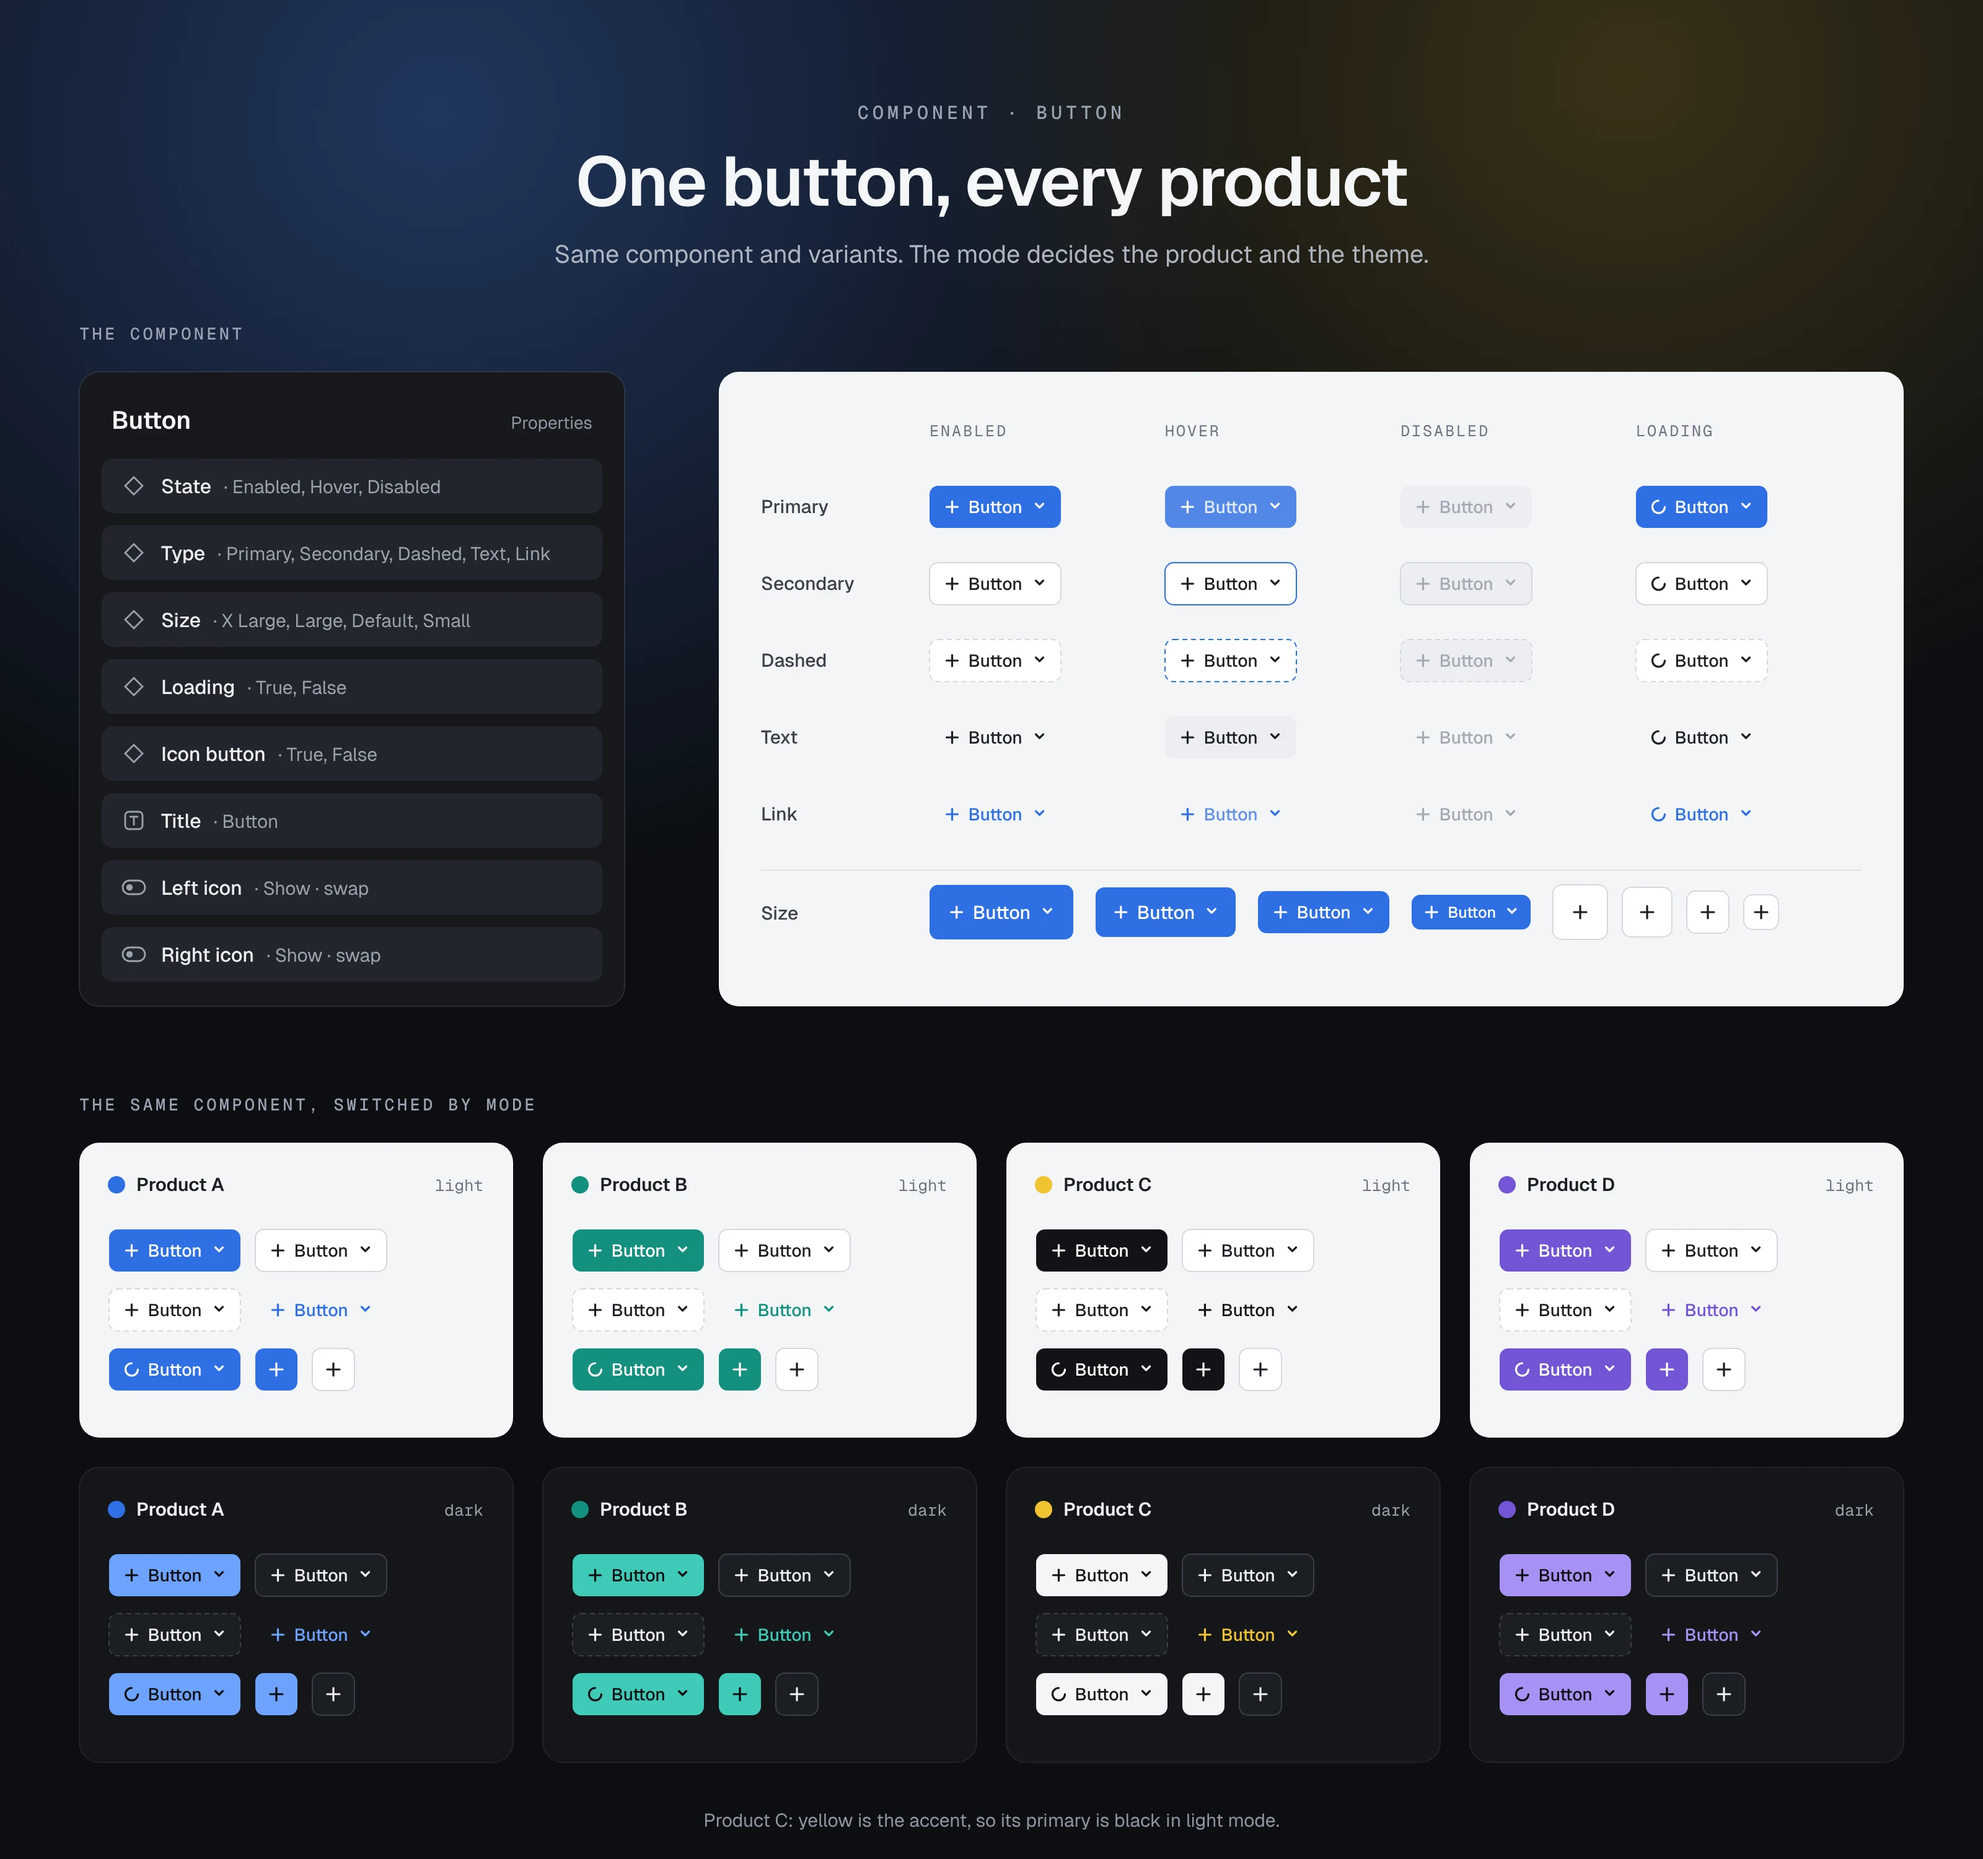
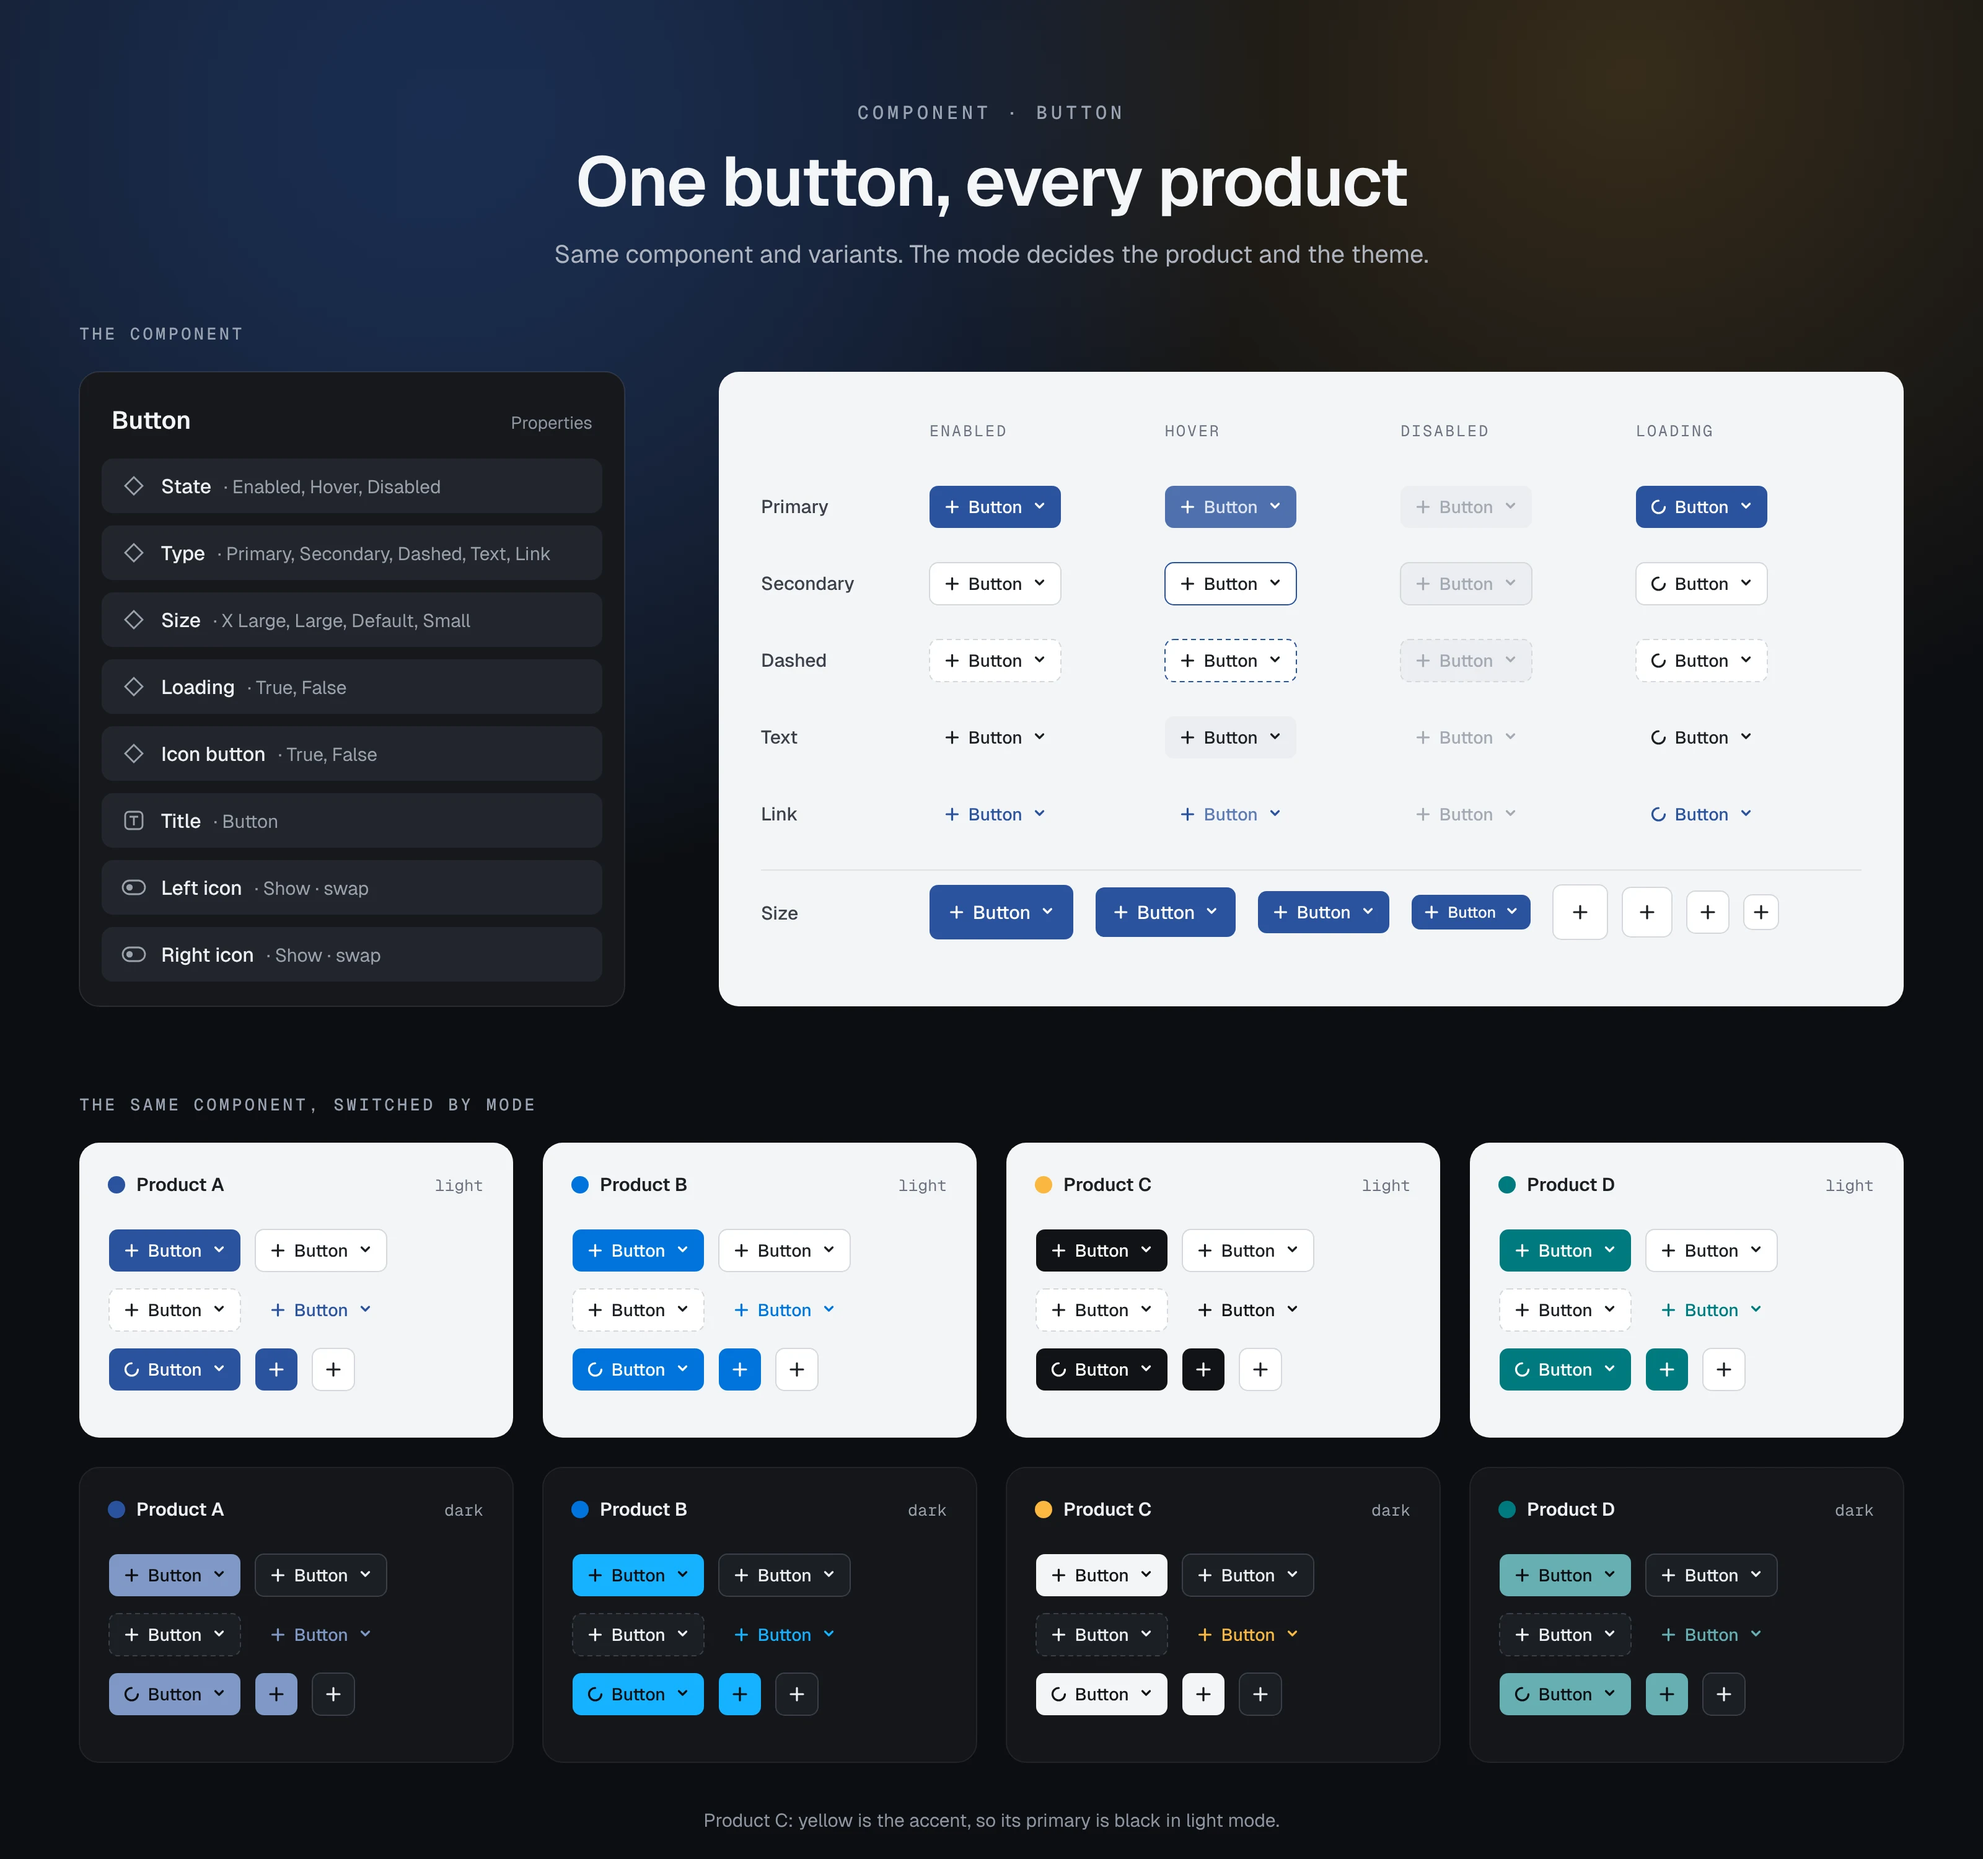
Use the real brand colours in the design system visuals
The four product colours in the Button image, the version 2 diagram and
the home card towers now come from the system's brand palettes (navy,
blue, amber, teal); no purple.

Claude-Session: https://claude.ai/code/session_01Xxpi6qVg2CXaCBZ57vkRh2

diff --git a/components/CaseCardArt.tsx b/components/CaseCardArt.tsx
@@ -179,10 +179,10 @@ const Brick = ({ x, y, c, delay }: { x: number; y: number; c: string; delay: num
 function DesignSystem() {
   // Same bricks, three buildings: one set of parts builds every brand.
   const towers = [
-    { x: 46, rows: 4, c: A },
-    { x: 94, rows: 6, c: "#2bb3a3" },
-    { x: 142, rows: 3, c: "#e8c34a" },
-    { x: 190, rows: 2, c: "#9a7cf0" },
+    { x: 46, rows: 4, c: "#5575B1" },
+    { x: 94, rows: 6, c: "#16B2FF" },
+    { x: 142, rows: 3, c: "#F9B741" },
+    { x: 190, rows: 2, c: "#339599" },
   ];
   const starts = towers.map((_, i) => towers.slice(0, i).reduce((n, t) => n + t.rows, 0));
   return (
@@ -221,9 +221,9 @@ function DesignSystem() {
             transition={{ delay: 1.1, duration: 0.7, ease: EASE }}
           >
             <line x1={201} y1={8} x2={201} y2={58} stroke={SUB} strokeWidth={1} strokeDasharray="2 2" />
-            <rect x={195} y={58} width={5} height={3} rx={1} fill="#9a7cf0" opacity={0.85} />
-            <rect x={204} y={58} width={5} height={3} rx={1} fill="#9a7cf0" opacity={0.85} />
-            <rect x={190} y={61} width={BW} height={BH} rx={2} fill="#9a7cf0" opacity={0.5} stroke="#9a7cf0" strokeWidth={1} />
+            <rect x={195} y={58} width={5} height={3} rx={1} fill="#339599" opacity={0.85} />
+            <rect x={204} y={58} width={5} height={3} rx={1} fill="#339599" opacity={0.85} />
+            <rect x={190} y={61} width={BW} height={BH} rx={2} fill="#339599" opacity={0.5} stroke="#339599" strokeWidth={1} />
           </motion.g>
           <line x1={0} x2={260} y1={GROUND + 0.5} y2={GROUND + 0.5} stroke={LINE} strokeWidth={1.2} />
         </svg>
